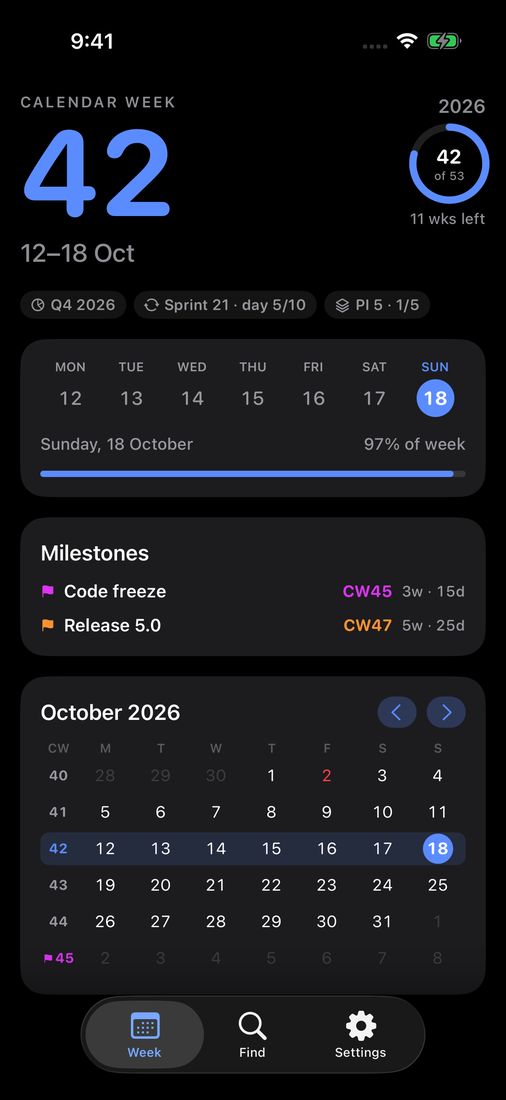
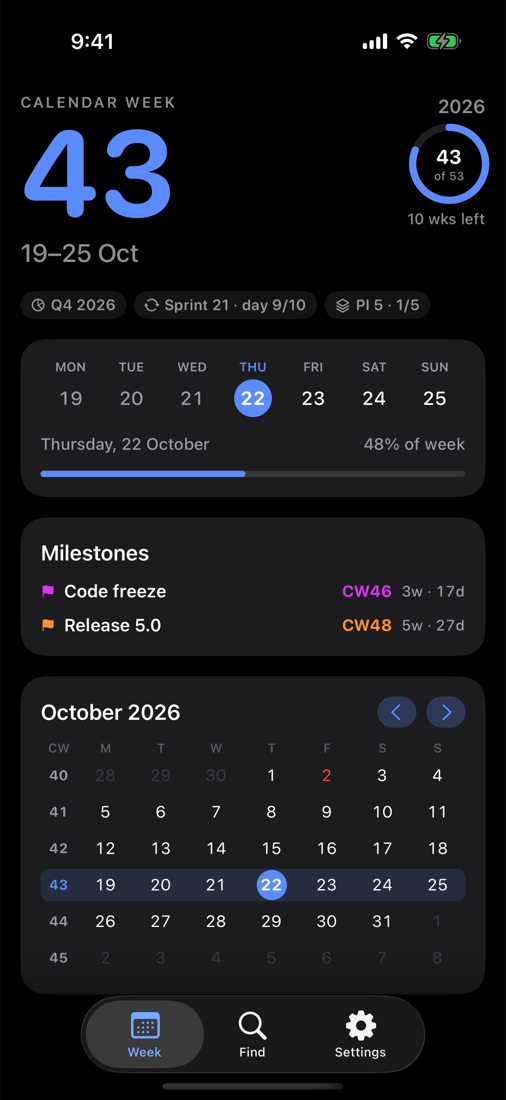
Site: CW43 screenshots and link-preview image; scripts to regenerate them
Add scripts/mobile-screenshots.sh (iPhone + Watch simulators) and scripts/og-image.sh (renders docs/assets/og.png from scripts/og/og.html); ship.sh now refreshes og.png on release.

Claude-Session: https://claude.ai/code/session_01NvtfN9p7197Eio1TC2onEc

diff --git a/scripts/og/og.html b/scripts/og/og.html
@@ -1,0 +1,31 @@
+<!doctype html>
+<!-- Social preview image (docs/assets/og.png, 1200×627). Rendered by scripts/og-image.sh from the
+     current widget and Quick Finder screenshots, so the week number always matches the release. -->
+<html><head><meta charset="utf-8">
+<link rel="stylesheet" href="https://fonts.googleapis.com/css2?family=Big+Shoulders+Display:wght@900&family=Figtree:wght@500;700&family=JetBrains+Mono:wght@400&display=block">
+<style>
+  :root { --paper: #f5f7fb; --ink: #131a2b; --ink-2: #4a5470; --accent: #2f6bff; --mark: #f28a1c; }
+  * { margin: 0; box-sizing: border-box; }
+  html, body { width: 1200px; height: 627px; overflow: hidden; }
+  body { background: var(--paper); font-family: Figtree, sans-serif; color: var(--ink); position: relative;
+    background-image: repeating-linear-gradient(90deg, transparent 0 170.4px, rgba(19,26,43,.06) 170.4px 171.4px); }
+  .brand { position: absolute; left: 72px; top: 88px; display: flex; align-items: center; gap: 26px; }
+  .brand img { width: 76px; height: 76px; }
+  .brand h1 { font: 900 112px/1 "Big Shoulders Display", sans-serif; letter-spacing: -.01em; }
+  h2 { position: absolute; left: 72px; top: 222px; font: 700 44px/1.2 Figtree, sans-serif; letter-spacing: -.02em; }
+  h2 em { font-style: normal; color: var(--accent); }
+  p { position: absolute; left: 72px; top: 348px; width: 440px; font: 500 23px/1.4 Figtree, sans-serif; color: var(--ink-2); }
+  .tags { position: absolute; left: 72px; top: 542px; font: 400 18px/1 "JetBrains Mono", monospace; color: var(--ink-2); letter-spacing: .02em; }
+  .tags b { font-weight: 400; color: var(--mark); }
+  .widget { position: absolute; left: 748px; top: 48px; width: 398px; border-radius: 26px;
+    box-shadow: 0 18px 50px rgba(19,26,43,.16); }
+  .finder { position: absolute; left: 556px; top: 340px; width: 420px; border-radius: 12px;
+    box-shadow: 0 22px 60px rgba(19,26,43,.35); }
+</style></head><body>
+  <div class="brand"><img src="../../docs/assets/icon.png" alt=""><h1>Weekmark</h1></div>
+  <h2>Any calendar week,<br><em>one keystroke away.</em></h2>
+  <p>The week number on your Mac desktop, plus a lookup for “when is CW46?”</p>
+  <div class="tags">macOS · free · notarized · <b>no tracking</b></div>
+  <img class="widget" src="../../docs/assets/widget.png" alt="">
+  <img class="finder" src="../../docs/assets/finder.png" alt="">
+</body></html>

diff --git a/docs/index.html b/docs/index.html
@@ -327,7 +327,7 @@ footer { padding-block: 40px 56px; color: var(--ink-3); font-size: .85rem; displ
       <h2>Weekmark for iPhone and Apple Watch</h2>
       <p class="lede">The week on your Lock Screen and your wrist, for when you’re travelling or away from your desk. Milestones, sprints, quarters and holidays sync from your Mac through iCloud, starting with Mac version 1.1.</p>
       <ul>
-        <li>“CW42” on the Lock Screen, above the clock or as a ring that fills through the week</li>
+        <li>“CW43” on the Lock Screen, above the clock or as a ring that fills through the week</li>
         <li>Home Screen and StandBy widgets with the week strip, next milestone and month grid</li>
         <li>Watch complications and a weeks list you scroll with the Digital Crown</li>
         <li>The same lookup as on the Mac: 46, Dec 12, +6w, 46-50, until CW52</li>
@@ -335,9 +335,9 @@ footer { padding-block: 40px 56px; color: var(--ink-3); font-size: .85rem; displ
       <p class="fine">In testing now. <a href="https://github.com/rockykusuma/weekmark">Watch the GitHub repo</a> to hear when it’s out.</p>
     </div>
     <div class="devices">
-      <img class="phone" src="assets/iphone-week.png" alt="Weekmark on iPhone showing calendar week 42 with sprint and PI chips, the week strip, milestones and a month grid with week numbers">
-      <img class="phone" src="assets/iphone-widgets.png" alt="Weekmark widgets: small, medium and large Home Screen widgets and Lock Screen widgets showing CW42">
-      <img class="watch" src="assets/watch.png" alt="Weekmark on Apple Watch showing calendar week 42 and the week strip">
+      <img class="phone" src="assets/iphone-week.png" alt="Weekmark on iPhone showing calendar week 43 with sprint and PI chips, the week strip, milestones and a month grid with week numbers">
+      <img class="phone" src="assets/iphone-widgets.png" alt="Weekmark widgets: small, medium and large Home Screen widgets and Lock Screen widgets showing CW43">
+      <img class="watch" src="assets/watch.png" alt="Weekmark on Apple Watch showing calendar week 43 and the week strip">
     </div>
   </div>
 </section>
